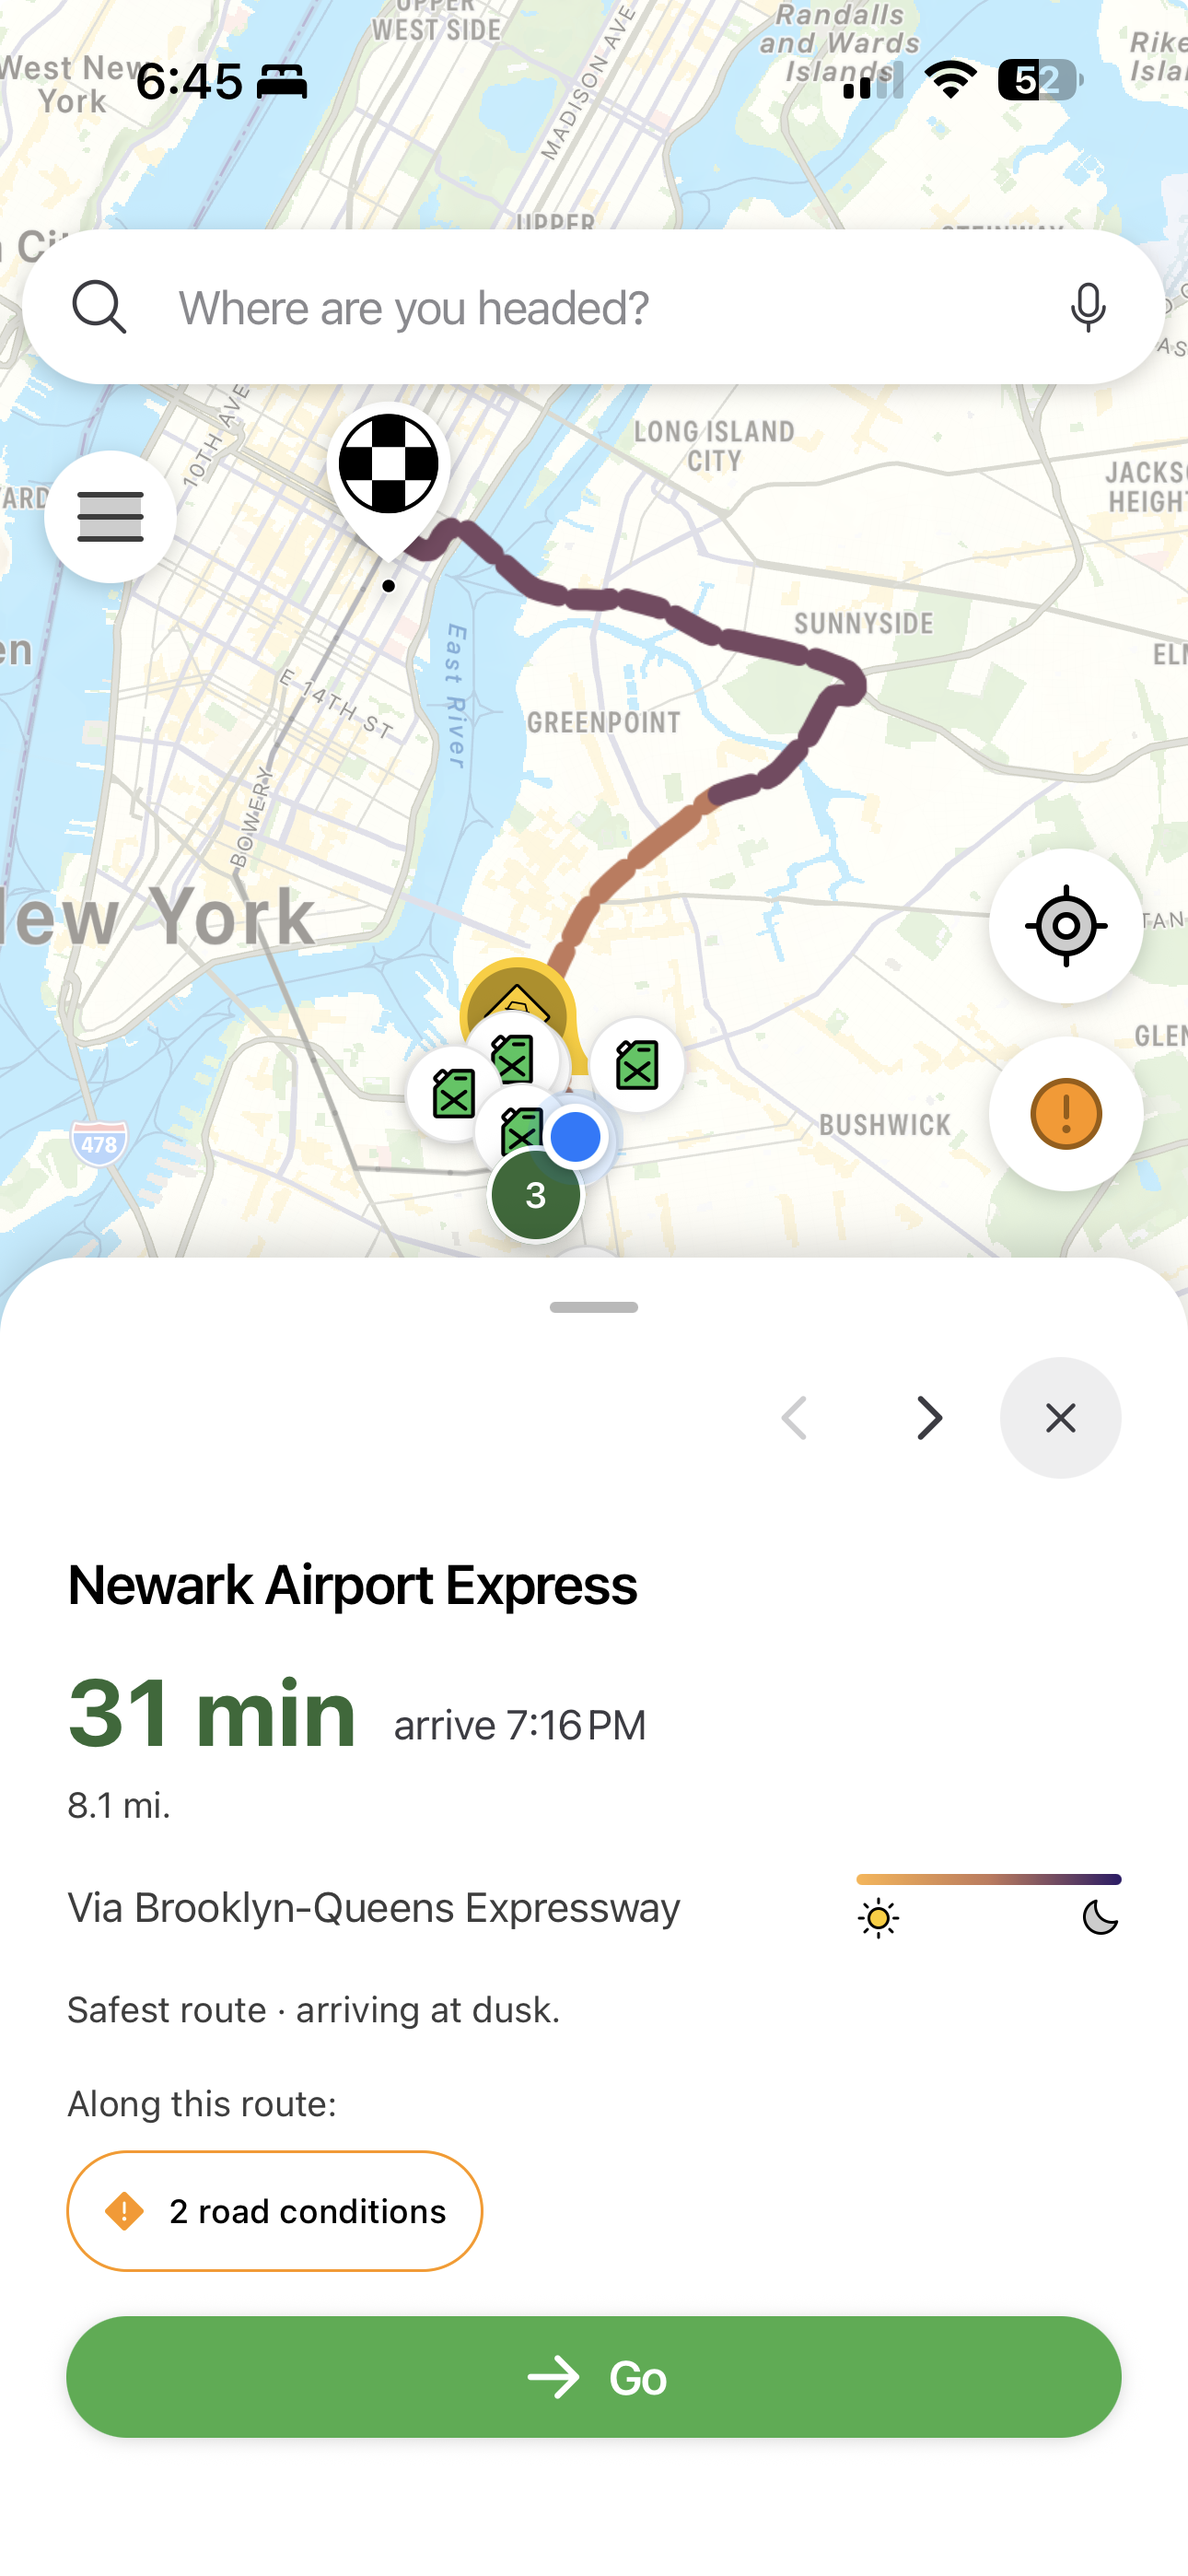
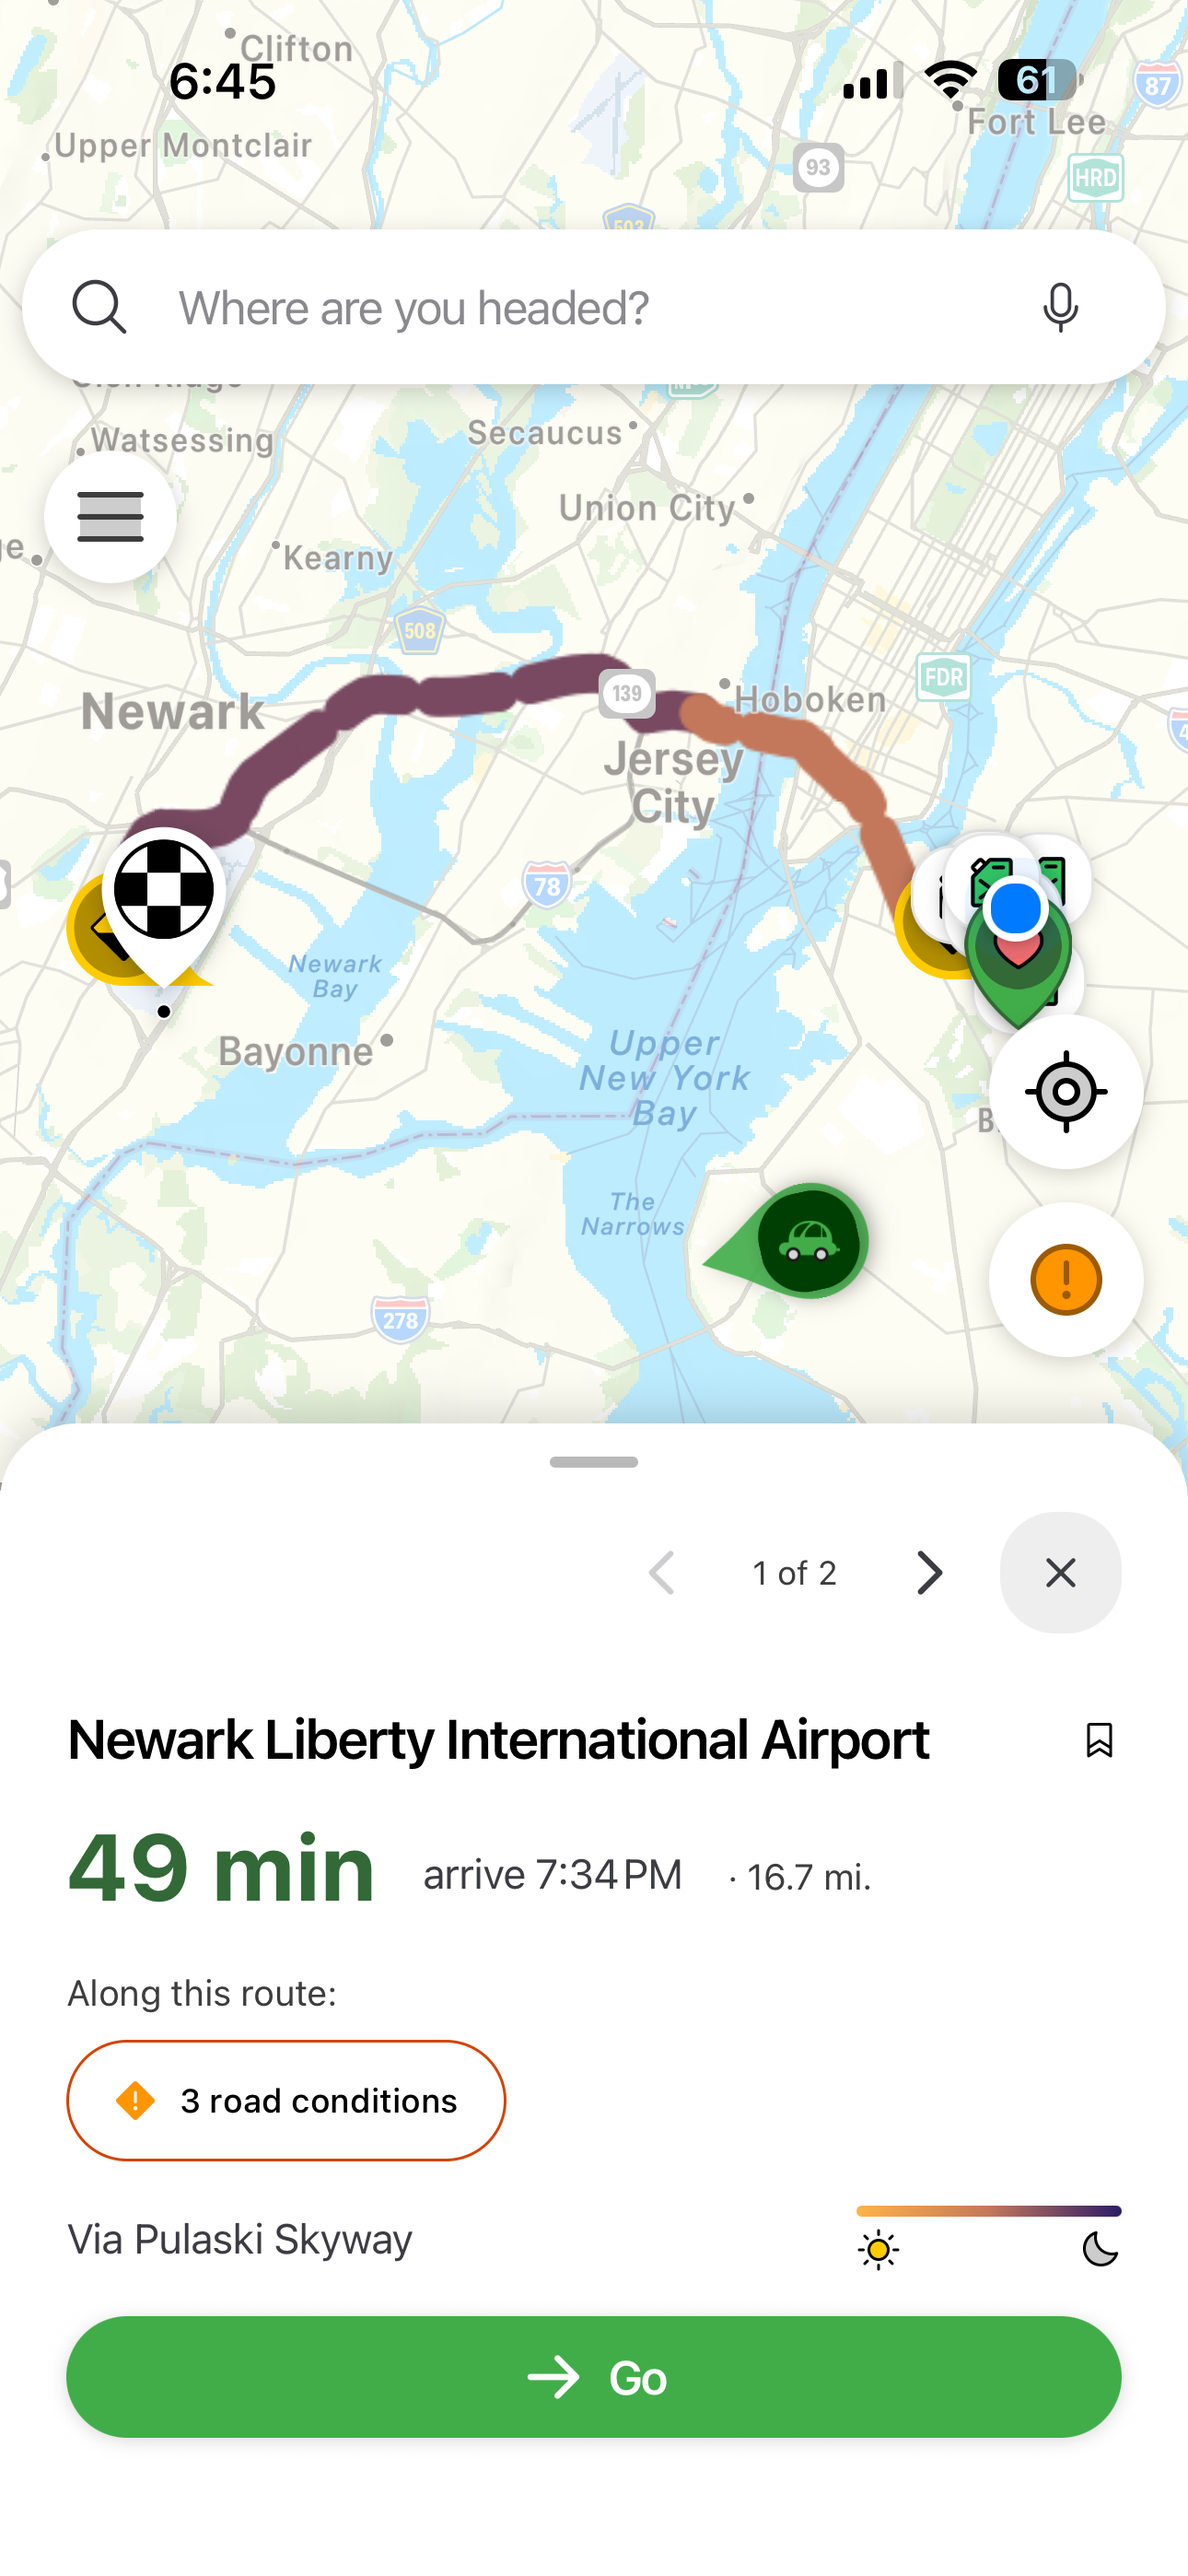
Update Fresh Greens case study screenshots and phone frame fit.
Replace feature images with June captures, add the safety menu visual, serve local assets without optimizer caching, and tune the screenshot phone frame so shots fill edge-to-edge without clipping or letterboxing.

diff --git a/src/app/work/fresh-greens/page.tsx b/src/app/work/fresh-greens/page.tsx
@@ -9,6 +9,7 @@ import {
   ArchitectureDiagram,
   DaylightLegend,
   FeatureCard,
+  PhoneFrame,
   ProcessGraph,
   SignalSwatches,
 } from "@/components/fresh-greens";
@@ -38,10 +39,10 @@ function RoutePreviewIllustration() {
   return (
     <ExpandableImage
       src="/projects/fresh-greens/feature-01-route-preview.png"
-      alt="Route preview screen: daylight-graded polyline from Manhattan to Newark Airport Express, ETA 31 min arriving at dusk, with a road conditions hazard chip and green Go button"
-      width={390}
-      height={844}
-      style={{ width: "100%", height: "100%", objectFit: "cover", display: "block" }}
+      alt="Route preview screen: Newark Liberty International Airport, 49 min arriving 7:34 PM, 16.7 mi via Pulaski Skyway, with an orange-to-purple daylight-graded polyline, 3 road conditions chip, and route pagination showing 1 of 2"
+      width={1290}
+      height={2796}
+      className="fg-feature-shot"
     />
   );
 }
@@ -50,10 +51,10 @@ function DaylightMapIllustration() {
   return (
     <ExpandableImage
       src="/projects/fresh-greens/feature-02-daylight-route.png"
-      alt="Daylight-graded route preview: 131-mile NJ Turnpike route arriving after dark, polyline shifting from orange at departure through mauve to indigo at destination, with 'Safest route · arriving after dark' and an All clear chip"
-      width={390}
-      height={844}
-      style={{ width: "100%", height: "100%", objectFit: "cover", display: "block" }}
+      alt="Daylight-graded route preview: 129-mile Vineland Flea Market trip via New Jersey Turnpike arriving 9:22 PM, dotted purple polyline with sun-to-moon slider near dusk and an All clear chip"
+      width={1290}
+      height={2796}
+      className="fg-feature-shot"
     />
   );
 }
@@ -62,10 +63,10 @@ function CommunityBrowseIllustration() {
   return (
     <ExpandableImage
       src="/projects/fresh-greens/feature-03-community-browse.png"
-      alt="Community browse screen: 'Trusted by your community' leads the discovery rows with a Community pick card for Sisters restaurant, filter chips for Black-Owned, Women-Owned, and LGBTQ+ Welcoming, and an Open now row below"
-      width={390}
-      height={844}
-      style={{ width: "100%", height: "100%", objectFit: "cover", display: "block" }}
+      alt="Community browse screen: Trusted by your community leads with a Sisters Community pick card, community note, filter chips for Black-Owned, Women-Owned, and LGBTQ+ Welcoming, and Kings County local recs header"
+      width={1290}
+      height={2796}
+      className="fg-feature-shot"
     />
   );
 }
@@ -74,10 +75,10 @@ function NavigationIllustration() {
   return (
     <ExpandableImage
       src="/projects/fresh-greens/feature-04-en-route.png"
-      alt="En-route navigation screen: dark green instruction header, 3D map with highlighted route, speedometer, and a right-side column with SOS, safety menu, and reporting buttons reachable from the driving thumb"
-      width={390}
-      height={844}
-      style={{ width: "100%", height: "100%", objectFit: "cover", display: "block" }}
+      alt="En-route navigation screen: Head out on Spencer Street instruction header, 3D map with highlighted route, and a right-side column with SOS, safety menu, and reporting buttons reachable from the driving thumb"
+      width={1290}
+      height={2796}
+      className="fg-feature-shot"
     />
   );
 }
@@ -86,10 +87,10 @@ function PulledOverIllustration() {
   return (
     <ExpandableImage
       src="/projects/fresh-greens/feature-05-pulled-over.png"
-      alt="/pulled-over screen: ACLU-sourced guidance bullets, ambient audio recording active with waveform, 'Saved to your phone, only you can access it' privacy note, and Continue button"
-      width={390}
-      height={844}
-      style={{ width: "100%", height: "100%", objectFit: "cover", display: "block" }}
+      alt="/pulled-over screen: ACLU-sourced guidance bullets, ambient audio recording active with waveform and timer, Read aloud affordance, Saved to your phone privacy note, and Continue button"
+      width={1290}
+      height={2796}
+      className="fg-feature-shot"
     />
   );
 }
@@ -98,10 +99,10 @@ function SettingsIllustration() {
   return (
     <ExpandableImage
       src="/projects/fresh-greens/feature-06-settings.png"
-      alt="Settings index screen: iOS grouped-list with Refuel reminders, Zone Preferences, Safety, and Saved places, plus Privacy & Terms and Sign out as separate groups"
-      width={390}
-      height={844}
-      style={{ width: "100%", height: "100%", objectFit: "cover", display: "block" }}
+      alt="Settings index screen: iOS grouped-list with Refuel reminders, Zone Preferences, Safety, Saved places, and Map guide, plus a Connect your calendar CTA and Privacy & Terms"
+      width={1290}
+      height={2796}
+      className="fg-feature-shot"
     />
   );
 }
@@ -110,10 +111,10 @@ function PreferredStationsIllustration() {
   return (
     <ExpandableImage
       src="/projects/fresh-greens/feature-08-preferred-stations.png"
-      alt="Gas on your route sheet: 10 stations, 3 trusted by you, with Shell Oil, Citgo Windhorse, and Citgo Gas & Diesel sorted to the top with green Trusted by you badges and filled gold stars, unstarred stations listed below"
-      width={390}
-      height={844}
-      style={{ width: "100%", height: "100%", objectFit: "cover", display: "block" }}
+      alt="Gas on your route sheet: 10 stations within about 1 mi, 1 trusted by you, with Shell Oil at the top showing a green Trusted by you badge and filled gold star"
+      width={1290}
+      height={2796}
+      className="fg-feature-shot"
     />
   );
 }
@@ -122,10 +123,22 @@ function CalendarIllustration() {
   return (
     <ExpandableImage
       src="/projects/fresh-greens/feature-07-calendar.png"
-      alt="Search screen showing upcoming calendar events: Dentist and Optometrist with addresses and time-until already populated, plus a fuel refuel reminder, all surfaced without opening a separate view"
-      width={390}
-      height={844}
-      style={{ width: "100%", height: "100%", objectFit: "cover", display: "block" }}
+      alt="Search screen showing an upcoming calendar reservation for HAAM Caribbean Plant Cuisine with address and time-until, plus a fuel refuel reminder and recent destinations, all without opening a separate view"
+      width={1290}
+      height={2796}
+      className="fg-feature-shot"
+    />
+  );
+}
+
+function SafetyMenuIllustration() {
+  return (
+    <ExpandableImage
+      src="/projects/fresh-greens/feature-09-safety-menu.png"
+      alt="Safety menu sheet opened from the en-route column: Pulled-over, Roadside assistance, Unfamiliar area, and Share location tiles, plus an Emergency row for trusted contact or 911"
+      width={1290}
+      height={2796}
+      className="fg-feature-shot"
     />
   );
 }
@@ -190,7 +203,7 @@ const FEATURES = [
   {
     number: "08",
     title: "Preferred stations · trusted gas, on your route",
-    copy: "Star any station from the on-route fuel sheet and it floats to the top on every future trip, a Trusted by you badge, filled star, sorted by distance. The subtitle says it plainly: 3 trusted by you. On the route preview, a quiet note appears when one falls near your chosen route. Personal, not algorithmic.",
+    copy: "Star any station from the on-route fuel sheet and it floats to the top on every future trip, a Trusted by you badge, filled star, sorted by distance. The subtitle says it plainly: 1 trusted by you. On the route preview, a quiet note appears when one falls near your chosen route. Personal, not algorithmic.",
     thesis:
       "The Green Book opened with a list of safe service stations for Black travelers. This is that, personal: the digital descendant of a community-trusted-establishments list, kept by the driver themselves.",
     illustration: <PreferredStationsIllustration />,
@@ -432,6 +445,16 @@ export default async function FreshGreensPage() {
             degrades cleanly to an SMS draft the trusted contact can act on.
           </p>
         </div>
+
+        <figure className="fg-safety-visual">
+          <PhoneFrame variant="screenshot">
+            <SafetyMenuIllustration />
+          </PhoneFrame>
+          <figcaption className="fg-safety-visual-caption">
+            The safety menu opened from the en-route column — four flows plus
+            emergency, one tap away.
+          </figcaption>
+        </figure>
 
         <div className="fg-safety-grid">
           <article className="fg-safety-card">

diff --git a/src/app/globals.css b/src/app/globals.css
@@ -3240,6 +3240,31 @@ button:focus-visible,
   position: relative;
 }
 
+/* Real device screenshots: match capture aspect, no fake notch, no crop */
+.fg-phone--screenshot .fg-phone-bezel {
+  aspect-ratio: auto;
+  height: fit-content;
+}
+
+.fg-phone--screenshot .fg-phone-screen {
+  aspect-ratio: 1290 / 2796;
+  height: auto;
+}
+
+.fg-phone--screenshot .fg-phone-screen .expandable-trigger,
+.fg-phone--screenshot .fg-phone-screen .expandable-trigger img,
+.fg-phone--screenshot .fg-feature-shot {
+  width: 100%;
+  height: 100%;
+  display: block;
+}
+
+.fg-phone--screenshot .fg-phone-screen .expandable-trigger img,
+.fg-phone--screenshot .fg-feature-shot {
+  object-fit: cover;
+  object-position: center center;
+}
+
 /* ── Hero route screen (the device illustration) ──────── */
 
 .fg-route-screen {
@@ -3969,9 +3994,23 @@ button:focus-visible,
   color: var(--muted);
 }
 
-/* ── Safety flows: text-only 2x2 grid of route descriptions ────── */
+/* ── Safety flows: menu screenshot + 2x2 route grid ───────────── */
+.fg-safety-visual {
+  margin: 2.2rem auto 0;
+  max-width: 276px;
+}
+
+.fg-safety-visual-caption {
+  margin: 0.85rem 0 0;
+  text-align: center;
+  color: var(--muted);
+  font-size: 0.88rem;
+  line-height: 1.5;
+  text-wrap: pretty;
+}
+
 .fg-safety-grid {
-  margin-top: 1.8rem;
+  margin-top: 2.4rem;
   display: grid;
   gap: 1.8rem;
   border-top: 1px solid var(--line);

diff --git a/src/components/fresh-greens.tsx b/src/components/fresh-greens.tsx
@@ -14,14 +14,14 @@ import type { ReactNode } from "react";
 
 type PhoneFrameProps = {
   children: ReactNode;
-  variant?: "default" | "dark";
+  variant?: "default" | "dark" | "screenshot";
 };
 
 export function PhoneFrame({ children, variant = "default" }: PhoneFrameProps) {
   return (
     <div className={`fg-phone fg-phone--${variant}`} aria-hidden="true">
       <div className="fg-phone-bezel">
-        <span className="fg-phone-notch" />
+        {variant !== "screenshot" ? <span className="fg-phone-notch" /> : null}
         <div className="fg-phone-screen">{children}</div>
       </div>
     </div>
@@ -539,7 +539,7 @@ type FeatureCardProps = {
 export function FeatureCard({ number, title, copy, thesis, illustration }: FeatureCardProps) {
   return (
     <article className="fg-feature">
-      <PhoneFrame>{illustration}</PhoneFrame>
+      <PhoneFrame variant="screenshot">{illustration}</PhoneFrame>
       <div className="fg-feature-text">
         <p className="fg-feature-number">{number}</p>
         <h3 className="fg-feature-title">{title}</h3>

diff --git a/src/components/expandable-image.tsx b/src/components/expandable-image.tsx
@@ -25,6 +25,7 @@ export function ExpandableImage({
   priority,
 }: Props) {
   const { openLightbox } = useLightbox();
+  const isLocalAsset = src.startsWith("/");
 
   return (
     <button
@@ -42,6 +43,7 @@ export function ExpandableImage({
         className={className}
         sizes={sizes}
         priority={priority}
+        unoptimized={isLocalAsset}
       />
     </button>
   );

diff --git a/src/components/lightbox-provider.tsx b/src/components/lightbox-provider.tsx
@@ -95,6 +95,7 @@ export function LightboxProvider({ children }: { children: ReactNode }) {
               alt={state.alt}
               width={1200}
               height={2600}
+              unoptimized={state.src.startsWith("/")}
               style={{
                 width: "auto",
                 height: "auto",
